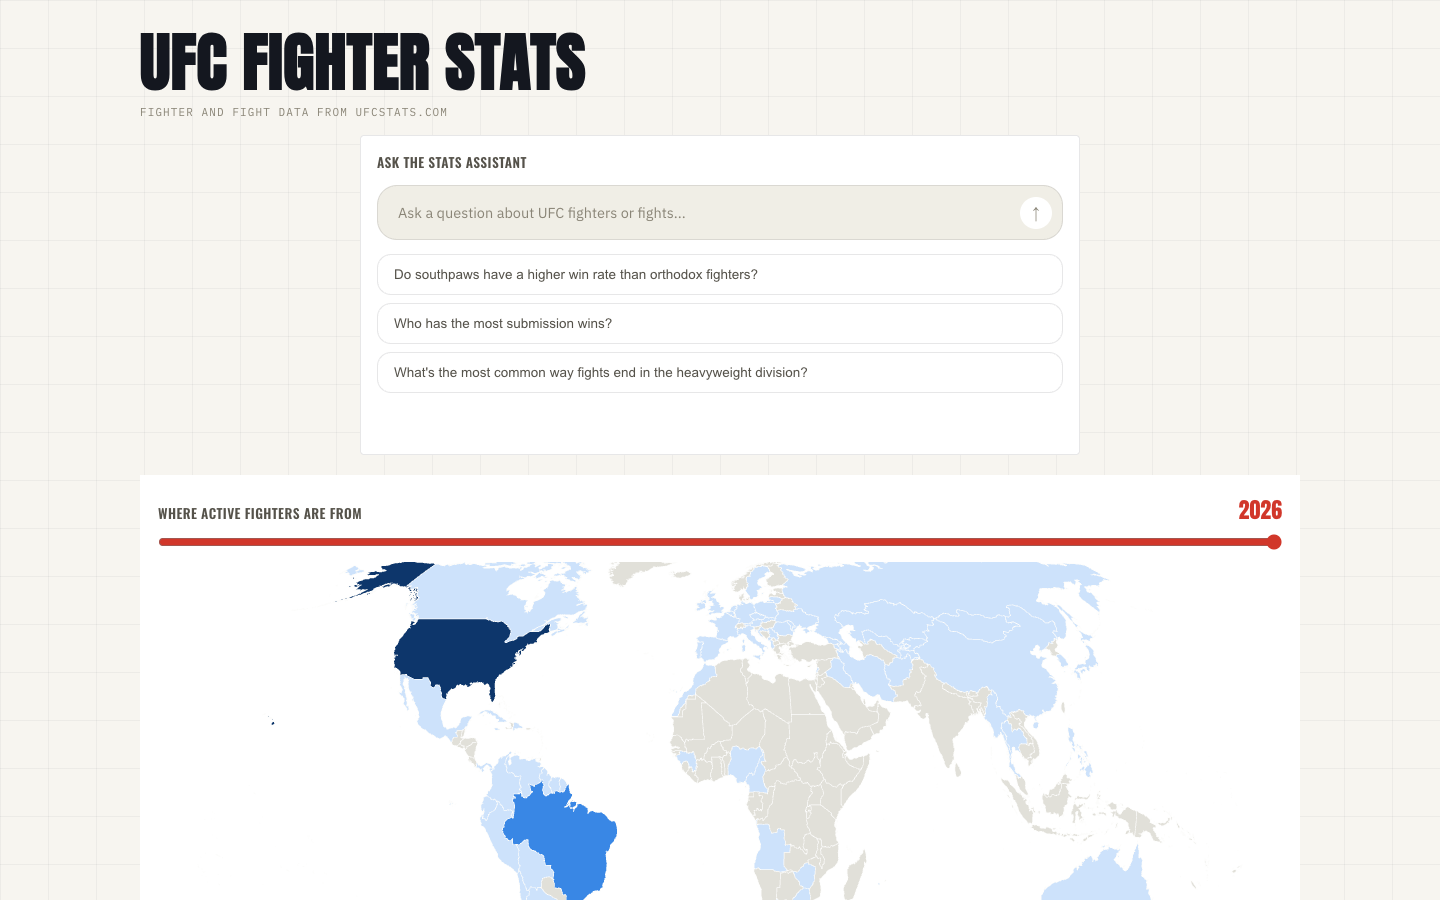
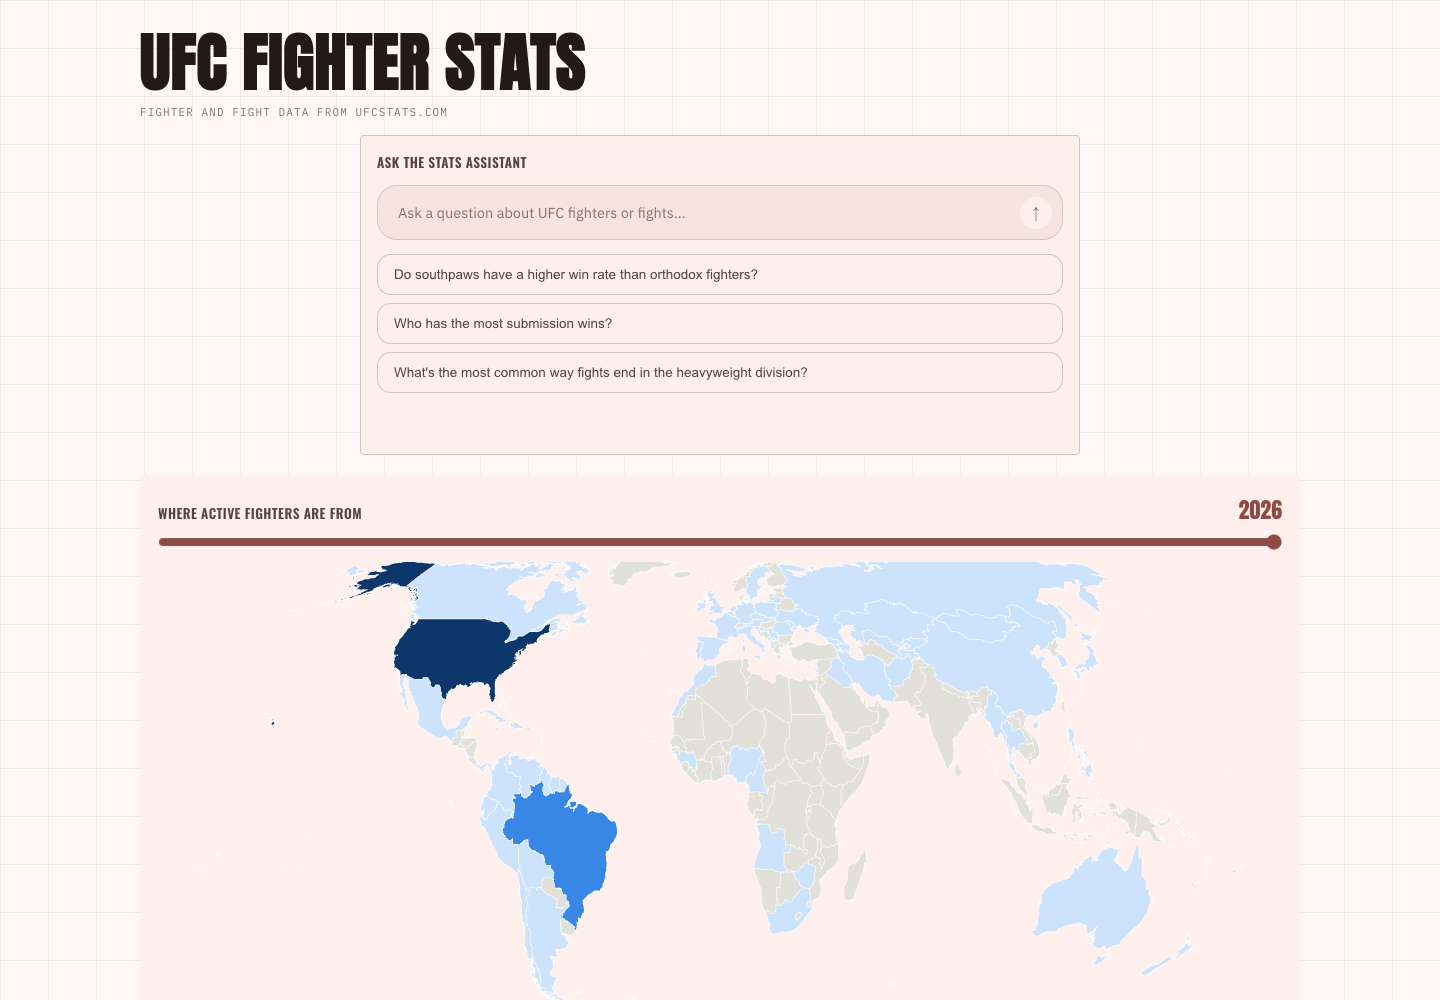
Update project previews/descriptions to reflect Material 3 redesigns across Shelf Match, the ant colony sim, and UFC Fighter Stats

Changed region(s): [[0.0938, 0.4978, 0.9062, 1.0], [0.25, 0.1556, 0.75, 0.4356], [0.0938, 0.0311, 0.4062, 0.1244]]

diff --git a/src/data.js b/src/data.js
@@ -38,27 +38,27 @@ export const PROJECTS = [
     name: "UFC Fighter Stats",
     tagline: "A full-stack fighter & fight-statistics dashboard, from schema to chat assistant.",
     description:
-      "Built on real UFC fight data: a normalized Postgres schema, a FastAPI backend serving read-only stats endpoints, and a React dashboard with 20+ interactive charts and widgets - a choropleth of fighter birthplaces, division leaderboards, live UFC.com rankings, and more. The centerpiece is a natural-language-to-SQL chat assistant backed by Claude, where a dedicated read-only Postgres role is the real enforcement layer, not just a prompt.",
+      "Built on real UFC fight data: a normalized Postgres schema, a FastAPI backend serving read-only stats endpoints, and a React dashboard with 20+ interactive charts and widgets - a choropleth of fighter birthplaces, division leaderboards, live UFC.com rankings, and more. The centerpiece is a natural-language-to-SQL chat assistant backed by Claude, where a dedicated read-only Postgres role is the real enforcement layer, not just a prompt. The color system is real Material 3 too - roles generated algorithmically from the app's red-corner accent - kept inside the site's fight-card newspaper identity (flat, sharp-cornered, hairline grid) rather than forcing in rounded M3 cards; the chart palette itself stays a separate, validated dataviz set.",
     image: "/screenshots/ufc-stats-preview.png",
-    tech: ["PostgreSQL", "FastAPI", "React", "Python", "Claude API", "Data Pipelines"],
+    tech: ["PostgreSQL", "FastAPI", "React", "Python", "Claude API", "Material 3"],
     githubUrl: "https://github.com/LNakai-OSU/ufc-data-insights-web-app",
   },
   {
     name: "Leafcutter Ant Colony Simulation",
     tagline: "An agent-based colony + foraging simulation, rendered as a live 3D colored graph.",
     description:
-      "A Mesa agent-based model of an Atta-style leafcutter colony - caste division of labor, fungus-garden agriculture, and ant-colony-optimization-style pheromone trail recruitment - revisiting the ant foraging behavior research I did in undergrad, now as a full simulation. Ships with twelve biologically-grounded variants (garden disease, phorid fly parasitism, seasonal drought, a rival colony contesting shared trees, and more), an A/B comparison mode to test whether a variant actually helps or hurts, and a parameter-sweep tool that heatmaps outcomes across a grid - a small experiment platform, not just a visualization.",
+      "A Mesa agent-based model of an Atta-style leafcutter colony - caste division of labor, fungus-garden agriculture, and ant-colony-optimization-style pheromone trail recruitment - revisiting the ant foraging behavior research I did in undergrad, now as a full simulation. Ships with twelve biologically-grounded variants (garden disease, phorid fly parasitism, seasonal drought, a rival colony contesting shared trees, and more), an A/B comparison mode to test whether a variant actually helps or hurts, and a parameter-sweep tool that heatmaps outcomes across a grid - a small experiment platform, not just a visualization. The control panel runs on Material 3 as a dark instrument-console theme - color roles generated algorithmically from the app's amber accent - while the 3D scene's own caste/health/colony colors stay untouched, since those carry data, not chrome.",
     image: "/screenshots/antcolony-preview.png",
-    tech: ["Python", "Mesa", "FastAPI", "React", "react-three-fiber", "Agent-Based Modeling"],
+    tech: ["Python", "Mesa", "FastAPI", "React", "react-three-fiber", "Material 3"],
     githubUrl: "https://github.com/LNakai-OSU/leafcutter-ant-colony-sim",
   },
   {
     name: "Shelf Match",
     tagline: "A book recommender constrained to what a small store actually has in stock.",
     description:
-      "Trained on 75,000 real Goodreads books (11.5M ratings, streamed and filtered from a 2.36M-book/2GB public dataset with a bounded-memory top-K heap) and ranked only against one store's actual inventory - the real problem is best available, not best hypothetical. Real semantic search - sentence embeddings over each book's actual description, not genre keywords - lets a customer type something as abstract as 'stylistically groundbreaking with an intriguing plot' and get a real answer; the same embeddings also power the content-based column of a content/collaborative/hybrid comparison, with a from-scratch collaborative-filtering model (latent-factor matrix factorization, gradient descent, ridge fold-in for new users) trained on the full ratings set. As a store, upload the books you carry and get a code customers can shop against instead of the built-in simulated inventory. Several real bugs found via targeted sanity checks - a count-independent bias-shrinkage flaw, a 15x gradient-accumulation slowdown from np.add.at, and an ISBN-matching bug the new dataset's schema silently surfaced - are documented in the README.",
+      "Trained on 75,000 real Goodreads books (11.5M ratings, streamed and filtered from a 2.36M-book/2GB public dataset with a bounded-memory top-K heap) and ranked only against one store's actual inventory - the real problem is best available, not best hypothetical. Real semantic search - sentence embeddings over each book's actual description, not genre keywords - lets a customer type something as abstract as 'stylistically groundbreaking with an intriguing plot' and get a real answer; the same embeddings also power the content-based column of a content/collaborative/hybrid comparison, with a from-scratch collaborative-filtering model (latent-factor matrix factorization, gradient descent, ridge fold-in for new users) trained on the full ratings set. As a store, upload the books you carry and get a code customers can shop against instead of the built-in simulated inventory. Several real bugs found via targeted sanity checks - a count-independent bias-shrinkage flaw, a 15x gradient-accumulation slowdown from np.add.at, and an ISBN-matching bug the new dataset's schema silently surfaced - are documented in the README. The UI runs on a real Material 3 system too - color roles generated algorithmically from the shop's wine-red identity via Google's own HCT algorithm, rather than a hand-picked palette.",
     image: "/screenshots/shelfmatch-preview.png",
-    tech: ["Python", "PyTorch", "sentence-transformers", "NumPy/SciPy", "FastAPI", "React"],
+    tech: ["Python", "PyTorch", "sentence-transformers", "NumPy/SciPy", "FastAPI", "React", "Material 3"],
     githubUrl: "https://github.com/LNakai-OSU/shelf-match",
   },
   {
